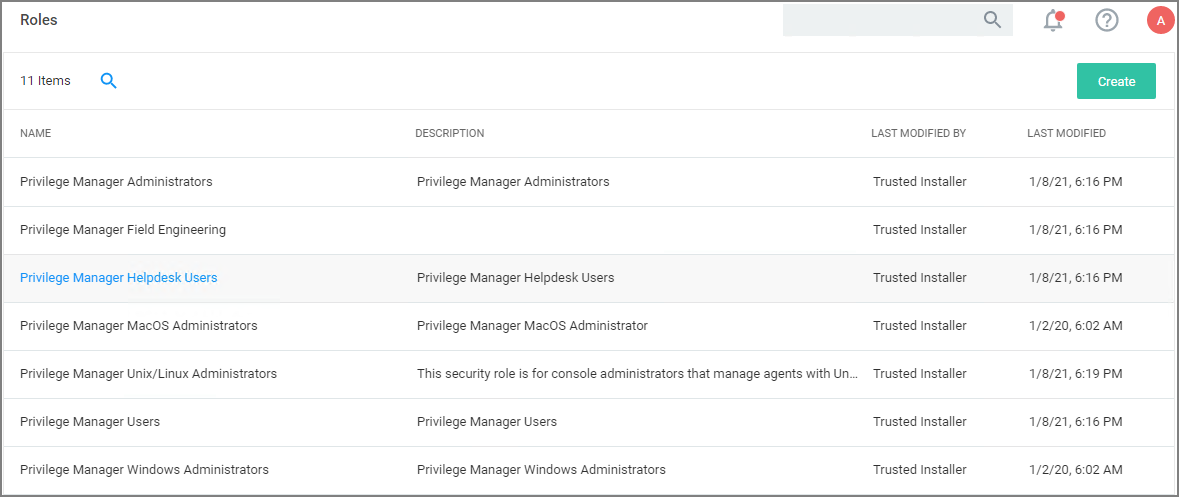
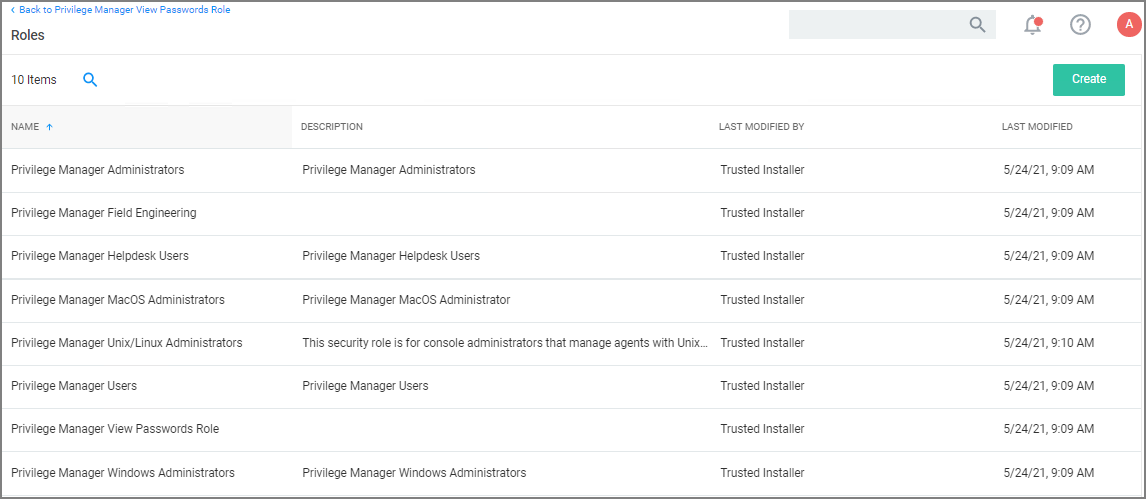
#250196: new pw view only role

diff --git a/admin/roles/app-roles.md b/admin/roles/app-roles.md
@@ -13,4 +13,5 @@ The following table provides an overview of Privilege Manager Application Roles:
 | Privilege Manager MacOS Administrators | Can do anything an administrator can, but only for macOS policies and resource targets. | yes (macOS) | yes | yes | yes | yes | yes | yes (macOS) | yes | yes | yes |
 | Privilege Manager Unix/Linux Administrators | Can do anything an administrator can, but only for Unix/Linux policies and resource targets. | yes (Unix/Linux) | yes | yes | yes | yes | yes | yes (Unix/Linux) | yes | yes | yes |
 | Privilege Manager Users | This is a read only role that can view all items, disclose passwords, and manage approvals. |  | yes |  | yes | yes |  |  | yes |  |  |
+| Privilege Manager View Password Role | Can only view current passwords and password change histories of managed users |  |  |  |  | yes |  |  |  |  |  |
 | Privilege Manager Windows Administrators | Can do anything an administrator can, but only for Windows policies and resource targets. | yes (Win) | yes | yes | yes | yes | yes | yes (Win) | yes | yes | yes |

diff --git a/admin/roles/index.md b/admin/roles/index.md
@@ -39,6 +39,10 @@ This role allows the Privilege Manager Unix/Linux Administrator to have full adm
 
 This role allows the user to have read permissions to most items, but no rights to modify security permissions. This role can disclose passwords.
 
+## Privilege Manager View Password Role
+
+This role allows the user to have view access to passwords for managed users in Privilege Manager. They can view the current passwords and password change history.
+
 ## Privilege Manager Windows Administrators
 
 This role allows the Privilege Manager Administrator to have full administrative access to the Privilege Manager Server Console to administer local security and application control items pertaining to Windows systems. This role can view but not edit macOS and Unix/Linux policies.
